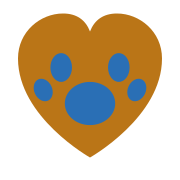
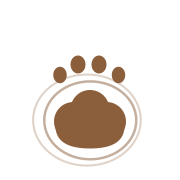
Warm golden redesign, product images, layout cleanup

diff --git a/components/layout.tsx b/components/layout.tsx
@@ -121,13 +121,9 @@ export function SiteHeader() {
 
   return (
     <header ref={headerRef} className="sticky top-0 z-40 border-b border-coral-200 bg-white/95 backdrop-blur">
-      <div className="container-shell flex items-center justify-between gap-6 py-4">
-        <Link href="/" className="flex items-center gap-3">
-          <img src="/logo-mark.svg" alt="" width="44" height="44" className="h-11 w-11" />
-          <div>
-            <div className="text-sm font-semibold text-brand-700">Interactive Pet Marketplace</div>
-            <div className="hidden sm:block text-xs text-slate-500">Interactive &amp; AI companion guides</div>
-          </div>
+      <div className="container-shell flex items-center justify-between gap-6 py-2">
+        <Link href="/" className="flex items-center">
+          <img src="/logo.svg" alt="Interactive Pet Marketplace" width="360" height="155" className="h-28 w-auto" />
         </Link>
         <nav className="hidden items-center gap-5 lg:flex">
           {mainNav.map((item) => {
@@ -240,7 +236,7 @@ export function SiteFooter() {
       <div className="container-shell py-12">
         <div className="grid gap-10 md:grid-cols-4">
           <div className="md:col-span-2">
-            <p className="text-base font-semibold text-brand-900">Interactive Pet Marketplace</p>
+            <img src="/logo.svg" alt="Interactive Pet Marketplace" width="220" height="95" className="h-14 w-auto" />
             <p className="mt-3 max-w-sm text-sm leading-7 text-slate-600">
               A cleaner way to compare companion-style plushy companions and AI &amp; robotic pets for seniors, families, and gift buyers.
             </p>

diff --git a/app/best-for-seniors/page.tsx b/app/best-for-seniors/page.tsx
@@ -40,10 +40,12 @@ export default function SeniorsPage() {
                   Senior Companion Digest — What&rsquo;s new?
                 </h2>
                 <Link
-                  href="/senior-research"
+                  href="https://interactivepetmarketplace.beehiiv.com/archive"
+                  target="_blank"
+                  rel="noopener noreferrer"
                   className="text-[10px] font-semibold text-trust-600 hover:text-trust-800 underline whitespace-nowrap"
                 >
-                  All articles →
+                  See all Digests →
                 </Link>
               </div>
 